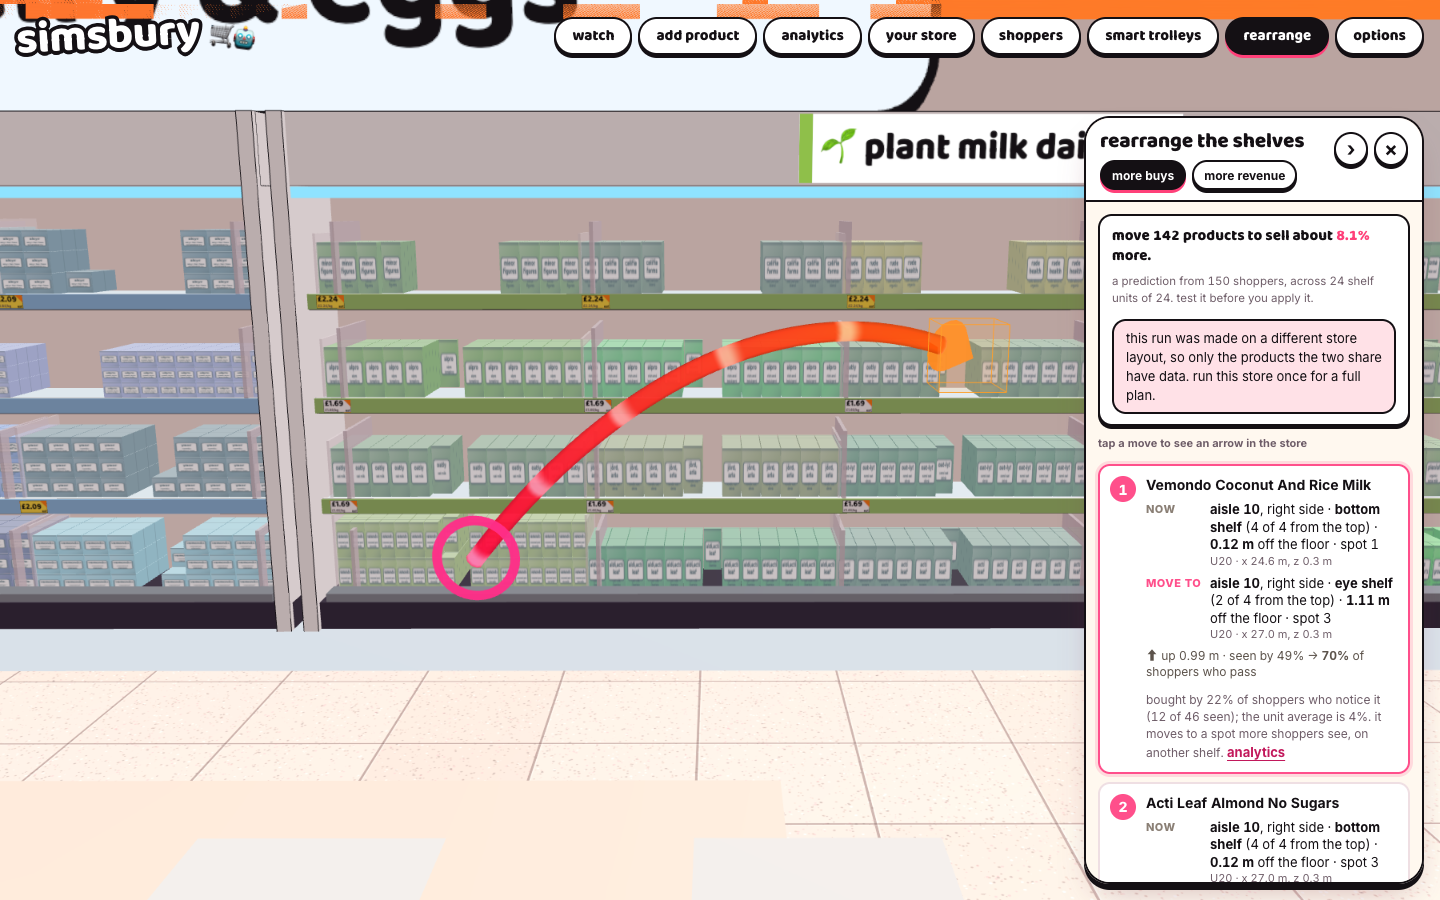
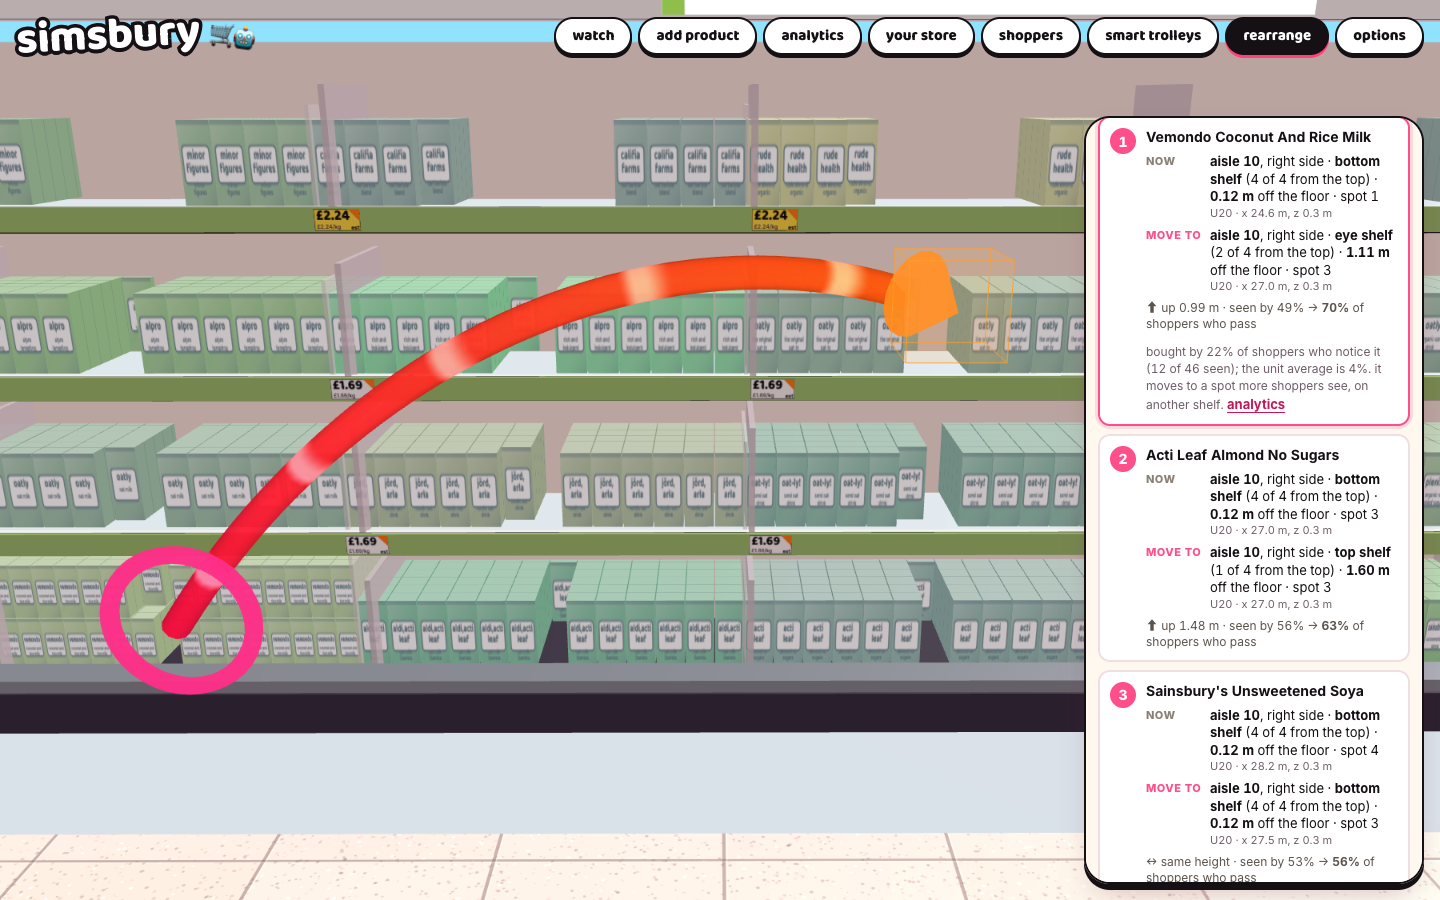
Rearrange camera: stay inside the walkway (max 3.6 m back), climb for long arrows, frame clear of the panel
Claude-Session: https://claude.ai/code/session_01Qo2myR8x2ZVjFcdCtNs1aY

diff --git a/web/src/scene/ShelfFill.tsx b/web/src/scene/ShelfFill.tsx
@@ -412,6 +412,9 @@ function planFlights(prev: Rec[], next: Rec[], camPos: THREE.Vector3): Flight[] 
 }
 const _fp = new THREE.Vector3(), _fq = new THREE.Quaternion(), _fs = new THREE.Vector3(), _fspin = new THREE.Quaternion(), _fm = new THREE.Matrix4();
 /** matrix of one flying pack at local time k (seconds since its own start) */
+/** furthest the panel's camera fly steps back from a shelf face, metres (assumption: visual, under half a walkway) */
+const FLY_MAX_BACK = 3.6;
+
 function flyMatrix(f: Flight, a: Pose, b: Pose, k: number): THREE.Matrix4 {
   if (k <= 0) return _fm.compose(a.p, a.q, a.s);
   const u = Math.min(1, k / f.dur);
@@ -621,9 +624,15 @@ export function ShelfFill({ cfg, planogram, products, gaps, timeRef, live, selec
     // camera fly requested by the panel (show me where / a move row)
     if (flyNonce.current !== moveFx.flyNonce && moveFx.fly) {
       flyNonce.current = moveFx.flyNonce;
-      const q = moveFx.fly, dist = q.dist ?? 5.2;
+      // stay inside the walkway: never step back further than FLY_MAX_BACK (walkways are ~5-6 m, layout.ts G.spacing / wallWalk);
+      // a wider shot (long arrow) climbs higher instead of backing into the opposite shelves
+      const q = moveFx.fly, want = q.dist ?? 2.6, back = Math.min(want, FLY_MAX_BACK);
       const tgt = new THREE.Vector3(q.x, q.y, q.z);
-      const pos = tgt.clone().add(new THREE.Vector3(q.fx, 0, q.fz).normalize().multiplyScalar(dist)); pos.y = Math.min(2.2, Math.max(1.5, q.y + 0.7 + dist * 0.08));
+      const pos = tgt.clone().add(new THREE.Vector3(q.fx, 0, q.fz).normalize().multiplyScalar(back));
+      pos.y = Math.min(3.6, Math.max(1.5, q.y + 0.5 + (want - back) * 0.6));
+      // the rearrange panel covers the right of the screen: slide the shot right so the arrow sits in the open part
+      const right = new THREE.Vector3().subVectors(tgt, pos).setY(0).normalize().cross(new THREE.Vector3(0, 1, 0)).multiplyScalar(back * 0.14);
+      pos.add(right); tgt.add(right);
       fly.current = { nonce: moveFx.flyNonce, t0: now, pos, tgt };
     }
     const controls = state.controls as unknown as { target: THREE.Vector3; update: () => void } | null;

diff --git a/web/src/ui/RearrangePanel.tsx b/web/src/ui/RearrangePanel.tsx
@@ -79,7 +79,7 @@ export function RearrangePanel(props: RearrangeProps) {
     const a = proposed && arrowFor(cfg, planogram, proposed, m, true);
     if (a) {
       const span = Math.hypot(a.to.x - a.from.x, a.to.y - a.from.y, a.to.z - a.from.z);
-      moveFx.flyTo({ x: (a.from.x + a.to.x) / 2, y: (a.from.y + a.to.y) / 2, z: (a.from.z + a.to.z) / 2, fx: a.fx, fz: a.fz, dist: 3.4 + span * 0.9 });
+      moveFx.flyTo({ x: (a.from.x + a.to.x) / 2, y: (a.from.y + a.to.y) / 2, z: (a.from.z + a.to.z) / 2, fx: a.fx, fz: a.fz, dist: 3.0 + span * 0.6 });
     }
   };
 
